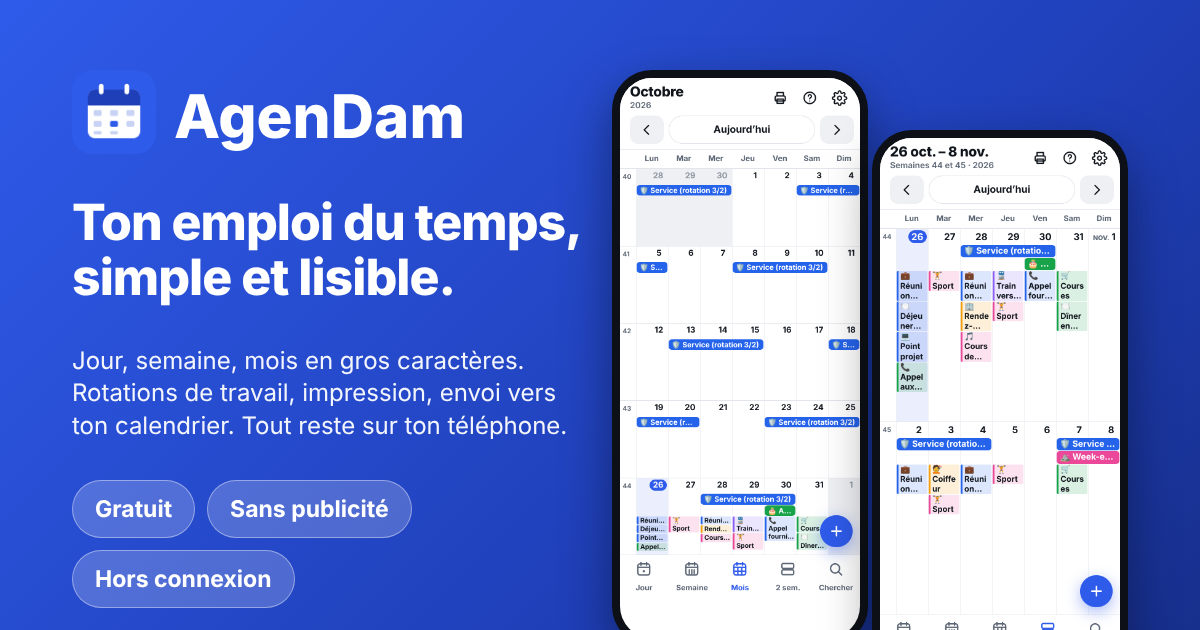
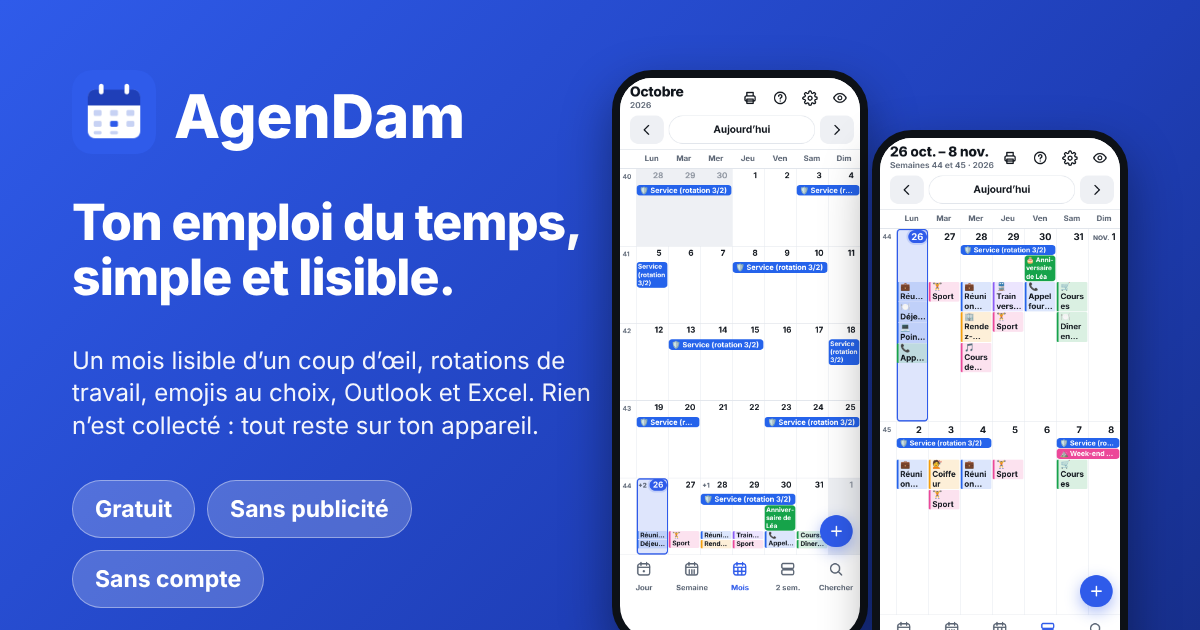
1.13.8 : vues Mois/2 sem. plus lisibles, fiche de présentation et aperçu

diff --git a/index.html b/index.html
@@ -15,7 +15,7 @@
 <meta name="apple-mobile-web-app-status-bar-style" content="default">
 <meta property="og:type" content="website">
 <meta property="og:title" content="AgenDam – emploi du temps simple et lisible">
-<meta property="og:description" content="Jour, semaine, mois en gros caractères, rotations de travail, impression, envoi vers ton calendrier. Gratuit, sans publicité, aucune donnée collectée.">
+<meta property="og:description" content="Mois lisible d’un coup d’œil, rotations de travail, emojis au choix, Outlook, Excel, impression. Gratuit, sans publicité, aucune donnée collectée.">
 <meta property="og:image" content="https://dam-cigogne.github.io/agenda/apercu.png">
 <meta property="og:url" content="https://dam-cigogne.github.io/agenda/">
 <meta name="twitter:card" content="summary_large_image">
@@ -346,7 +346,7 @@ html[data-theme=dark] .tst button{color:#2f5bea}
 .icos{gap:.35rem}
 .chip.ico{padding:.3rem .5rem;font-size:1.3rem;min-width:2.6rem;justify-content:center}
 
-.mo2.fort .mband{font-size:.82rem}
+.mo2.fort .mband{font-size:.66rem}
 .mo2.fort .mn{font-size:.9rem}
 .mo2.fort .mn small{font-size:.62rem;font-weight:800;color:var(--muted);text-transform:uppercase}
 .mo2.fort .mn.today small{color:inherit}
@@ -425,7 +425,7 @@ details.msd summary{display:flex;flex-wrap:wrap;gap:.2rem .5rem;align-items:base
 details.msd .mut{font-size:.85rem}
 
 /* bandeau étroit : titre sur plusieurs lignes */
-.mband.wn{white-space:normal;display:-webkit-box;-webkit-box-orient:vertical;-webkit-line-clamp:var(--wl,2);overflow-wrap:anywhere;line-height:1.25;padding-top:.06rem;padding-bottom:.06rem}
+.mband.wn{white-space:normal;display:-webkit-box;-webkit-box-orient:vertical;-webkit-line-clamp:var(--wl,2);overflow-wrap:break-word;word-break:normal;hyphens:auto;-webkit-hyphens:auto;line-height:1.25;padding-top:.06rem;padding-bottom:.06rem}
 
 .emgrid{display:grid;grid-template-columns:repeat(auto-fill,minmax(2.6rem,1fr));gap:.2rem;max-height:40vh;overflow-y:auto;margin:.4rem 0}
 .emo{font-size:1.6rem;line-height:1;padding:.35rem 0;border:0;background:transparent;border-radius:.5rem;cursor:pointer}
@@ -443,6 +443,11 @@ body.focus #focusbar{display:flex;align-items:center;justify-content:space-betwe
 body.focus #focuslbl{font-weight:800;font-size:1.05rem;background:var(--surface);border-radius:999px;padding:.15rem .7rem;box-shadow:0 1px 6px rgba(0,0,0,.15);pointer-events:none;opacity:.92}
 body.focus #focusbar .ib{pointer-events:auto;background:var(--surface);box-shadow:0 1px 6px rgba(0,0,0,.2);border-radius:50%;opacity:.85}
 body.focus #body{padding-top:calc(env(safe-area-inset-top,0px) + 3.1rem)}
+
+.mband.wn{padding-left:.22rem;padding-right:.18rem;hyphenate-limit-chars:9 4 4;-webkit-hyphenate-limit-before:3;-webkit-hyphenate-limit-after:3}
+
+.mband{align-self:start}
+@media(max-width:699px){.mo2 .mband.wn{font-size:.62rem;padding-left:.15rem;padding-right:.1rem}}
 
 </style>
 </head>
@@ -485,12 +490,17 @@ body.focus #body{padding-top:calc(env(safe-area-inset-top,0px) + 3.1rem)}
 (function(){
 'use strict';
 /* ========= Agenda · données, dates, récurrences, .ics, sauvegarde ========= */
-const APP_VERSION='1.13.7';
+const APP_VERSION='1.13.8';
 const P='agd-';
 const K={data:P+'data',set:P+'settings',meta:P+'meta',fired:P+'fired',ms:P+'ms'};
 const BACKUP_FILE='agenda-sauvegarde.json';
 const ICS_FILE='agenda.ics';
 const CHANGELOG=[
+ {v:'1.13.8',d:'27/10/2026',items:[
+  'Vue 2 semaines (téléphone) : texte un peu plus petit et jusqu’à 6 lignes par événement, les mots longs se coupent proprement avec un tiret (« anniver-saire ») au lieu d’être hachés en morceaux',
+  'Vue Mois : les titres d’un seul jour se lisent mieux (police ajustée, icône retirée quand elle prend la place du texte) et les barres sur plusieurs jours ne s’étirent plus',
+  'Vues Mois et 2 semaines : plus de teinte grise/bleue sur le « jour sélectionné » ; seul aujourd’hui est mis en valeur'
+ ]},
  {v:'1.13.7',d:'27/10/2026',items:[
   'Le jour d’aujourd’hui est beaucoup plus visible : case colorée avec un cadre, numéro entouré d’un halo (vues Mois et 2 semaines), colonne plus marquée en vue Semaine'
  ]},
@@ -1173,25 +1183,30 @@ function monthViewTitles(fort,pr){
   const anyT=timed.some(a=>a.length);
   /* bandeaux d'une seule colonne (étroits) : le titre passe sur 2-3 lignes au lieu d'être coupé */
   const cw=pr?(big?96:70):(((($('#main')||{}).clientWidth)||390)-fs*1.5)/7;
-  const bfs=pr?(big?14:11):fs*(fort?(tab?0.82:0.82):(tab?0.8:0.7));
+  const bfs=pr?(big?14:11):fs*(fort?(tab?0.82:0.66):(tab?0.8:0.7));
   const cpl=Math.max(4,Math.floor((cw-bfs*0.6)/(bfs*0.66)));
   const budget=avail-(anyT?tlH*2:0);
   /* on essaie d'abord icône + titre sur 3 puis 2 lignes, puis titre seul ; on garde la 1re option qui montre tous les événements */
   let best=null;
-  for(const [withIcon,cap] of [[true,3],[true,2],[false,2],[false,1]]){
+  for(const [withIcon,cap] of (fort&&!pr?[[true,6],[true,5],[true,4],[true,3],[true,2],[false,4],[false,3],[false,2]]:[[true,3],[true,2],[false,2],[false,1]])){
    const lh=lanes.map(()=>1);
-   const wls=bands.map(b=>{
+   const nis=[];
+   const wls=bands.map((b,k)=>{
+    nis[k]=false;
     if(b.c0!==b.c1)return 1;
-    const n=Array.from(b.o.ev.title).length+(withIcon&&b.o.ev.icon?2:0);
+    const tl=Array.from(b.o.ev.title).length;
+    if(withIcon&&b.o.ev.icon&&tl>cpl*(cap-1))nis[k]=true;
+    const n=tl+(withIcon&&b.o.ev.icon&&!nis[k]?2:0);
     const w=n>cpl?Math.min(cap,Math.ceil(n/cpl)):1;
     if(w>lh[b.lane])lh[b.lane]=w;return w;
    });
    let vis_=0,used_=0;
-   while(vis_<lanes.length&&(vis_===0||used_+lh[vis_]*bandH<=budget)){used_+=lh[vis_]*bandH;vis_++}
-   if(!best||vis_>best.vis)best={vis:vis_,used:used_,wls,noIcon:!withIcon};
+   const hh=l=>l>1?l*bfs*1.25+bfs*0.3+2:bandH;
+    while(vis_<lanes.length&&(vis_===0||used_+hh(lh[vis_])<=budget)){used_+=hh(lh[vis_]);vis_++}
+   if(!best||vis_>best.vis)best={vis:vis_,used:used_,wls,nis,noIcon:!withIcon};
    if(vis_===lanes.length)break;
   }
-  bands.forEach((b,k)=>{b.wl=best.wls[k]});
+  bands.forEach((b,k)=>{b.wl=best.wls[k];b.ni=best.nis[k]});
   const vis=best.vis,used=best.used;
   const hid=Array(7).fill(0);
   const room=Math.max(0,avail-used);
@@ -1203,7 +1218,7 @@ function monthViewTitles(fort,pr){
   bands.forEach(b=>{
    if(b.lane>=vis){for(let c=b.c0;c<=b.c1;c++)hid[c]++;return}
    const o=b.o,col=catOf(o.ev.cat).color;
-   fg+='<i class="mband'+(b.wl>1?' wn':'')+(o.date<ws?' cl':'')+(o.endDate>we?' cr':'')+'" data-date="'+o.date+'" style="grid-row:'+(2+b.lane)+';grid-column:'+(b.c0+2)+' / '+(b.c1+3)+';--c:'+col+';--ink:'+inkOn(col)+(b.wl>1?';--wl:'+b.wl:'')+'">'+(best.noIcon&&b.c0===b.c1?esc(o.ev.title):evT(o.ev))+'</i>';
+   fg+='<i class="mband'+(b.wl>1?' wn':'')+(o.date<ws?' cl':'')+(o.endDate>we?' cr':'')+'" data-date="'+o.date+'" style="grid-row:'+(2+b.lane)+';grid-column:'+(b.c0+2)+' / '+(b.c1+3)+';--c:'+col+';--ink:'+inkOn(col)+(b.wl>1?';--wl:'+b.wl:'')+'">'+((best.noIcon||b.ni)&&b.c0===b.c1?esc(o.ev.title):evT(o.ev))+'</i>';
   });
   timed.forEach((arr,c)=>{
    if(!arr.length)return;
@@ -1220,7 +1235,7 @@ function monthViewTitles(fort,pr){
   let bg='<span class="wn">'+wk+'</span>';
   for(let c=0;c<7;c++){
    const d=add(ws,c);
-   bg+='<button class="bgc'+(d===V.date?' sel':'')+(d===t?' today':'')+(month!==null&&pd(d).getMonth()!==month?' out':'')+'" data-act="selday" data-date="'+d+'" aria-label="'+fLong(d)+'"></button>';
+   bg+='<button class="bgc'+(d===t?' today':'')+(month!==null&&pd(d).getMonth()!==month?' out':'')+'" data-act="selday" data-date="'+d+'" aria-label="'+fLong(d)+'"></button>';
   }
   h+='<div class="mw"><div class="mw-bg">'+bg+'</div><div class="mw-fg">'+fg+'</div></div>';
  }

diff --git a/presentation.html b/presentation.html
@@ -4,7 +4,7 @@
 <meta charset="utf-8">
 <meta name="viewport" content="width=device-width,initial-scale=1">
 <title>AgenDam · emploi du temps simple et lisible</title>
-<meta name="description" content="AgenDam, agenda et emploi du temps gratuit, lisible et privé : jour, semaine, 2 semaines, mois, rotations sur mesure, impression, rappels, import/export .ics. Aucune donnée collectée.">
+<meta name="description" content="AgenDam, agenda et emploi du temps gratuit, lisible et privé : mois lisible d’un coup d’œil, rotations sur mesure, emojis au choix, Outlook, Excel, impression. Sans publicité, aucune donnée collectée.">
 <meta name="theme-color" content="#2f5bea">
 <link rel="icon" type="image/svg+xml" href="icons/icon.svg">
 <link rel="apple-touch-icon" href="icons/apple-touch-icon.png">
@@ -60,17 +60,31 @@ a{color:var(--accent)}
     <img src="screenshots/semaine-sombre.png" alt="Mode sombre">
   </div>
 
+  <section id="difference">
+    <h2>Ce qui la rend différente</h2>
+    <div class="grid">
+      <div class="card"><h3>Gratuite, sans pub, sans compte</h3><p><b>Ici :</b> aucune publicité, aucun abonnement, aucun compte à créer, aucune donnée collectée. <b>Souvent ailleurs :</b> publicité, version payante ou compte obligatoire.</p></div>
+      <div class="card"><h3>Tes données restent chez toi</h3><p><b>Ici :</b> tout est enregistré sur ton appareil, il n’existe aucun serveur de l’appli. <b>Souvent ailleurs :</b> tes événements transitent par les serveurs de l’éditeur.</p></div>
+      <div class="card"><h3>Un mois qu’on lit d’un coup d’œil</h3><p><b>Ici :</b> titres en entier, bandeaux sur plusieurs jours, emoji, jour J encadré, mode plein écran (l’œil). <b>Souvent ailleurs :</b> des points de couleur ou des titres tronqués.</p></div>
+      <div class="card"><h3>Tes rotations, sur mesure</h3><p><b>Ici :</b> tu crées ton cycle (matin / soir / nuit, repos, heures) et il se place tout seul. <b>Souvent ailleurs :</b> il faut tout saisir à la main, jour après jour.</p></div>
+      <div class="card"><h3>Tu choisis où ça va</h3><p><b>Ici :</b> pour chaque événement, le calendrier Outlook de destination, sa catégorie Outlook, ou « Appli seulement ». Pas de doublons à l’envoi. <b>Souvent ailleurs :</b> tout part au même endroit.</p></div>
+      <div class="card"><h3>Tu rapatries ton ancien agenda</h3><p><b>Ici :</b> import depuis Outlook ou depuis n’importe quel fichier Excel / CSV, avec reconnaissance des colonnes et liste à cocher avant d’importer. Les jours identiques sont regroupés en une barre.</p></div>
+      <div class="card"><h3>Un emoji pour chaque chose</h3><p><b>Ici :</b> un sélecteur avec recherche en français (« dentiste », « avion »…) et un emoji par défaut par catégorie.</p></div>
+      <div class="card"><h3>Sur tous tes appareils, même hors ligne</h3><p><b>Ici :</b> iPhone, Android, tablette, ordinateur, avec installation depuis le navigateur, sans magasin d’applis. L’appli marche sans connexion.</p></div>
+    </div>
+  </section>
+
   <section>
     <h2>Ce que fait l’appli</h2>
     <div class="grid">
       <div class="card"><h3>Jour, semaine, 2 semaines, mois</h3><p>Des vues nettes, en gros caractères, lisibles d’un coup d’œil, sur téléphone, tablette ou ordinateur. La vue « 2 semaines » donne beaucoup de place aux titres.</p></div>
       <div class="card"><h3>Un mois qu’on lit vraiment</h3><p>Les titres sont écrits en entier (sur plusieurs lignes quand il y a de la place), avec une barre de couleur par catégorie. Un événement sur plusieurs jours forme un seul bandeau avec son nom complet.</p></div>
-      <div class="card"><h3>Un emoji par événement</h3><p>🦷 dentiste, 🎂 anniversaire, 🏖 vacances… Un coup d’œil suffit pour repérer ce qu’on fait.</p></div>
+      <div class="card"><h3>Un emoji par événement</h3><p>🦷 dentiste, 🎂 anniversaire, 🏖 vacances… Un sélecteur intégré avec recherche en français, et un emoji par défaut pour chaque catégorie. Un coup d’œil suffit pour repérer ce qu’on fait.</p></div>
       <div class="card"><h3>Tes rotations, sur mesure</h3><p>Tu crées toi-même ton cycle : jours travaillés, repos, matin / soir / nuit, heures, emoji. Des modèles (3 jours / 2 repos, 2-2-2-4) pour démarrer. Facultatif.</p></div>
       <div class="card"><h3>Répétitions et rappels</h3><p>Tous les jours, semaines, mois, ans. « À venir aujourd’hui » à l’ouverture et notifications quand la plateforme le permet.</p></div>
       <div class="card"><h3>Impression, une page par vue</h3><p>Jour, semaine, 2 semaines ou mois : une seule page A4, bien lisible, avec l’heure devant chaque rendez-vous.</p></div>
       <div class="card"><h3>Vers le calendrier du téléphone</h3><p>Tu choisis ce que tu envoies (par période, catégorie, case à cocher), et ton téléphone te laisse choisir le calendrier : iCloud, Outlook, Google…</p></div>
-      <div class="card"><h3>Outlook (facultatif)</h3><p>Envoi de ton agenda vers un calendrier Outlook à part, directement vers ton compte, sans serveur intermédiaire.</p></div>
+      <div class="card"><h3>Outlook (facultatif)</h3><p>Envoi de ton agenda vers le calendrier Outlook de ton choix, avec sa catégorie Outlook, sans doublons, et récupération de tes calendriers Outlook dans l’appli. Directement avec ton compte, sans serveur intermédiaire.</p></div>
       <div class="card"><h3>Sauvegarde, recherche, mode sombre</h3><p>Sauvegarde .json, import et export .ics, recherche en quelques lettres, thème clair, sombre ou automatique.</p></div>
     </div>
   </section>
@@ -144,7 +158,7 @@ a{color:var(--accent)}
   <div class="card"><h3>Importer d’ailleurs</h3><p>Tu as déjà un agenda ? Rapatrie-le : depuis Outlook en un geste, ou depuis n’importe quel fichier Excel ou CSV (Google Agenda, autre appli…). Les colonnes sont reconnues automatiquement et les doublons ignorés.</p></div>
   <div class="card"><h3>Direction vers le rendez-vous</h3><p>Un événement a un lieu ? Touche-le : Plans, Google Maps ou Waze s’ouvre avec l’adresse prête.</p></div>
   <div class="card"><h3>Partager l’appli</h3><p>Dans la roue crantée ⚙ → <b>Fiche de l’appli</b> : 3 affiches (claire, sombre, avec l’appli) et une carte d’aperçu, à envoyer avec « Partager avec le descriptif », « Voir la fiche » ou « Copier le lien ». Le <b>Guide d’utilisation</b> et « Installer l’appli » sont au même endroit.</p></div>
-  <footer>AgenDam · gratuit, sans publicité · version 1.13.7 · <a href="./">Ouvrir l’appli</a></footer>
+  <footer>AgenDam · gratuit, sans publicité · version 1.13.8 · <a href="./">Ouvrir l’appli</a></footer>
 </div>
 </body>
 </html>

diff --git a/sw.js b/sw.js
@@ -2,7 +2,7 @@
    Le nom du cache porte la version : à chaque nouvelle version, changer VERSION
    ici ET APP_VERSION dans index.html. Préfixe « agd- » : on ne touche jamais
    aux caches des autres applis du même domaine (mc-, glf-…). */
-const VERSION = '1.13.7';
+const VERSION = '1.13.8';
 const CACHE = 'agd-cache-v' + VERSION;
 const ASSETS = [
   './',

diff --git a/README.md b/README.md
@@ -1,5 +1,7 @@
 # AgenDam
 
+**Pourquoi AgenDam ?** Gratuite, sans publicité, sans compte, aucune donnée collectée (aucun serveur). Un mois lisible d'un coup d'œil (titres entiers, emoji, jour J), des rotations de travail sur mesure, import Outlook / Excel / CSV, envoi vers le calendrier Outlook et la catégorie de son choix, impression A4 d'une page.
+
 AgenDam : agenda et emploi du temps simple et lisible, installable sur iPhone et Android (PWA).
 Jour, semaine, mois en gros caractères. Gratuit, sans publicité, **aucune donnée collectée** : tout reste sur l'appareil.
 
@@ -17,9 +19,10 @@ Jour, semaine, mois en gros caractères. Gratuit, sans publicité, **aucune donn
 - Envoi vers le calendrier du téléphone : choix précis des événements (période, catégorie, cases), choix du calendrier par le téléphone, « Mettre à jour » après modification (réglable)
 - Rappels « à venir aujourd'hui » à l'ouverture, notifications selon la plateforme
 - Sauvegarde / restauration `agenda-sauvegarde.json` (nom fixe), import / export `.ics`, bouton « Ajouter à mon agenda » (Apple, Outlook, Google : envoi unique, pas de synchronisation)
+- Mode plein écran (œil), jour J mis en valeur, vue 2 semaines lisible (mots coupés avec tiret)
 - Sélecteur d'emojis intégré (catégories, recherche en français, récents) + emoji par défaut par catégorie
 - Import d'autres calendriers : depuis Outlook (lecture de ses autres calendriers, sens Outlook → appli) et depuis un fichier Excel / CSV / ODS (SheetJS, Apache-2.0, `lib/xlsx.core.min.js`, chargé uniquement à l'import) avec reconnaissance automatique des colonnes
-- Connexion facultative à Outlook / Microsoft : envoi de l'agenda vers un calendrier à part (sens unique, directement vers le compte de l'utilisateur, aucun serveur intermédiaire)
+- Connexion facultative à Outlook / Microsoft : envoi vers le calendrier Outlook choisi pour chaque événement (ou « Agenda (appli) »), catégorie Outlook au choix, anti-doublons (marque propriétaire sur chaque événement), nettoyage des doublons ; directement vers le compte de l'utilisateur, aucun serveur intermédiaire
 - Mode sombre, recherche, mode démo, aide « ? » intégrée avec historique des versions
 
 ## Limites à connaître
